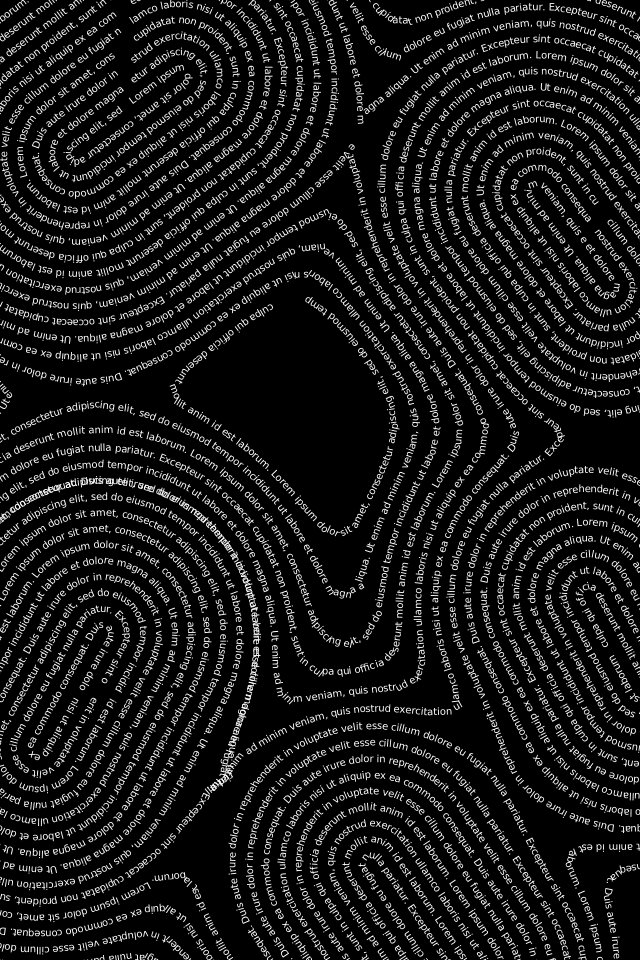
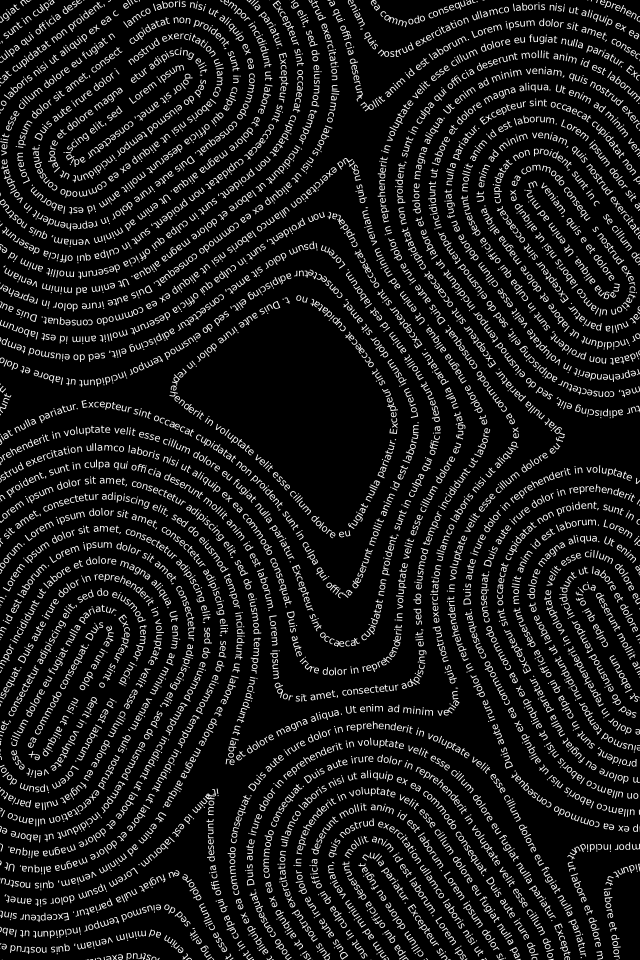
Stop the texture drawing over itself
Reported from a device with a screenshot: the pattern overlaps in one or
two places -- text set across text at a shallow angle. Two faults, and
the second is what the first was hiding.

A ring is traced by walking its curve from a seed, and several seeds are
tried per ring because a ring is several separate curves until the
strokes' families merge. A seed landing where a curve has already been
drawn is dropped, and THAT WAS ONLY EVER ASKED ABOUT THE SEED. A seed
just past the end of an existing curve passed the check and its walk
then retraced seven hundred pixels of the same line, two pixels to the
side. The walk now asks on every stride and stops when it reaches ground
an earlier curve of its ring has covered, so a later curve fills what is
left rather than repeating it. The point that trips the check is not
kept: a stride is long enough to go from a comfortable distance to
touching in one move, and keeping it left the overlap it was meant to
prevent.

That alone took the page from forty clashes to one, and the one was the
interesting half: the checks compare sampled POINTS, and the stride was
capped at three spacings -- so two curves crossing at a shallow angle
could pass through each other between samples with every sample
comfortably far from every other. Neither the walk nor a check after the
fact could see it. Two segments that cross have endpoints within a
stride of the crossing, so the cap is now half a spacing, which no check
[…]

Changed region(s): [[0.0, 0.0, 1.0, 1.0]]

diff --git a/tools/textart/TextArtPainter.qml b/tools/textart/TextArtPainter.qml
@@ -238,12 +238,30 @@ Canvas {
     // ----------------------------------------------------------- the tracing
 
     /// Follow the curve at `level` from a seed, one way, until it closes on
-    /// itself or leaves the canvas. Returns flat `[x0, y0, x1, y1, ...]`.
+    /// itself, leaves the canvas, or reaches ground an earlier curve of this
+    /// ring has already covered. Returns flat `[x0, y0, x1, y1, ...]`.
     ///
     /// One stride along the tangent, then one Newton correction back onto the
     /// level: two evaluations a step, and the correction is what stops the
     /// line drifting off its own ring over thousands of pixels.
-    function walk(L, sx, sy, level, direction, step, maxSteps, soft, sc, fg) {
+    ///
+    /// `covered` is where the ring's earlier curves have been (see
+    /// `traceRing`), and stopping when this one reaches them is what keeps a
+    /// ring from being TRACED TWICE. A device reported the pattern
+    /// overlapping itself in a couple of places: two seeds on one ring, the
+    /// second of them just beyond the end of the curve the first had drawn
+    /// -- so the grid, which was only ever asked about the SEED, let it
+    /// through, and it retraced seven hundred pixels of the same line two
+    /// pixels to the side. Asking on every stride is the whole fix: a later
+    /// curve fills whatever is left of its ring and stops where the pattern
+    /// is already there.
+    ///
+    /// The question it asks is the same one `overlaps` asks afterwards --
+    /// "is there already ink within `near` of here" -- so the two cannot
+    /// disagree about what counts as drawing twice, and the curves meet
+    /// rather than overlapping by however coarse a grid cell happens to be.
+    function walk(L, sx, sy, level, direction, step, maxSteps, soft, sc, fg,
+                  covered, cell, near) {
         var points = []
         var x = sx, y = sy
         var w = art.width, h = art.height
@@ -265,6 +283,16 @@ Canvas {
                 x -= correction * fg[1]
                 y -= correction * fg[2]
             }
+            // BEFORE the point is kept, not after: a stride is as long as
+            // the ring's own curvature allows, so a curve can go from a
+            // comfortable distance to touching in one of them. Keeping the
+            // point that stopped the walk is what left a few overlaps behind
+            // when this stopped on grid cells instead. No `i > 6` guard is
+            // needed -- `covered` holds only the curves traced BEFORE this
+            // one, so there is nothing of its own to trip on.
+            if (art.inked(covered, cell, x, y, near)) {
+                return { points: points, closed: false }
+            }
             points.push(x, y)
             if (i > 6) {
                 var dx = x - sx, dy = y - sy
@@ -277,6 +305,42 @@ Canvas {
             }
         }
         return { points: points, closed: false }
+    }
+
+    /// Whether any point already recorded in `grid` is within `near` of
+    /// (x, y). The grid buckets points by `cell`, and `near` is never more
+    /// than a cell, so the nine around it are all that can hold one.
+    function inked(grid, cell, x, y, near) {
+        var gx = Math.floor(x / cell), gy = Math.floor(y / cell)
+        var limit = near * near
+        for (var ox = -1; ox <= 1; ox++) {
+            for (var oy = -1; oy <= 1; oy++) {
+                var bucket = grid[(gy + oy) * 65536 + (gx + ox)]
+                if (!bucket) {
+                    continue
+                }
+                for (var i = 0; i < bucket.length; i += 2) {
+                    var dx = x - bucket[i], dy = y - bucket[i + 1]
+                    if (dx * dx + dy * dy < limit) {
+                        return true
+                    }
+                }
+            }
+        }
+        return false
+    }
+
+    /// Record a point as drawn, for `inked` to find.
+    ///
+    /// Not `ink`: that is the property saying how dark the text is, and a
+    /// function of the same name is simply not reachable -- the call comes
+    /// back "TypeError", because it is asking a number to be a function.
+    function markInk(grid, cell, x, y) {
+        var key = Math.floor(y / cell) * 65536 + Math.floor(x / cell)
+        if (!grid[key]) {
+            grid[key] = []
+        }
+        grid[key].push(x, y)
     }
 
     /// Every curve of one ring, as `{points, closed}` with `points` flat.
@@ -298,12 +362,36 @@ Canvas {
         var level = spacing * (k + 0.5)
 
         // A chord of this length sits within `tol` of a circle of radius
-        // `level`, so the outermost rings are walked in long strides and the
-        // innermost, which actually curve, in short ones.
+        // `level`, so the innermost rings, which actually curve, are walked
+        // in short strides.
+        //
+        // The CAP is what matters on the outer ones, and it is half a
+        // spacing rather than three: the checks that stop two curves being
+        // drawn over one another compare sampled POINTS, so a stride long
+        // enough to cross another curve between two of its own samples hides
+        // the crossing from them -- which is exactly what shipped, text over
+        // text at a shallow angle with every sample comfortably far from
+        // every other. Two segments that cross have endpoints within a
+        // stride of the crossing, so a stride under half the spacing cannot
+        // hide one from a check that refuses 0.8 of it. This was a stride of
+        // twenty pixels when the pattern was painted on the phone and the
+        // arithmetic had to be cheap; it is painted here now, where it can
+        // afford to be careful.
         var tol = 0.4
         var step = Math.sqrt(8 * level * tol)
-        if (step < 1.5) { step = 1.5 } else if (step > spacing * 3) { step = spacing * 3 }
+        if (step < 1.5) { step = 1.5 } else if (step > spacing * 0.5) { step = spacing * 0.5 }
 
+        // How close two bits of line may come before the later one gives
+        // up: just under the spacing the rings are drawn at, because that
+        // spacing IS the room a line of text needs. Half of it was tried and
+        // is visibly wrong -- the glyphs are nearly as tall as the spacing,
+        // so lines that pass within half of it collide even though no curve
+        // is drawn twice. The seed check and the walk both mean this by
+        // "already drawn", and no point that comes within it is ever kept,
+        // so `overlaps` passes by construction rather than by luck.
+        var near = spacing * 0.95
+        // Big enough that the nine cells around a point hold everything
+        // within `near` of it, and that a stride cannot skip over a cell.
         var cell = Math.max(spacing, step)
         var grid = {}
         var sc = new Array(3 * n)
@@ -337,23 +425,16 @@ Canvas {
                 continue
             }
 
-            var gx0 = Math.floor(sx / cell), gy0 = Math.floor(sy / cell)
-            var covered = false
-            for (var ox = -1; ox <= 1 && !covered; ox++) {
-                for (var oy = -1; oy <= 1 && !covered; oy++) {
-                    if (grid[(gy0 + oy) * 65536 + (gx0 + ox)]) {
-                        covered = true
-                    }
-                }
-            }
-            if (covered) {
+            if (art.inked(grid, cell, sx, sy, near)) {
                 continue
             }
 
-            var forward = art.walk(L, sx, sy, level, 1, step, maxSteps, soft, sc, fg)
+            var forward = art.walk(L, sx, sy, level, 1, step, maxSteps, soft, sc, fg,
+                                   grid, cell, near)
             var points = forward.points
             if (!forward.closed) {
-                var back = art.walk(L, sx, sy, level, -1, step, maxSteps, soft, sc, fg).points
+                var back = art.walk(L, sx, sy, level, -1, step, maxSteps, soft, sc, fg,
+                                    grid, cell, near).points
                 var joined = []
                 for (var b = back.length - 2; b >= 0; b -= 2) {
                     joined.push(back[b], back[b + 1])
@@ -368,11 +449,69 @@ Canvas {
                 continue
             }
             for (var m = 0; m < points.length; m += 2) {
-                grid[Math.floor(points[m + 1] / cell) * 65536 + Math.floor(points[m] / cell)] = true
+                art.markInk(grid, cell, points[m], points[m + 1])
             }
             out.push({ points: points, closed: forward.closed })
         }
         return out
+    }
+
+    /// Where two DIFFERENT curves are drawn over one another, which is the
+    /// one defect of this pattern a person notices: text on top of text.
+    ///
+    /// Returns how many pairs of points sit closer than half the line
+    /// spacing. `make textart` refuses to ship a master that reports any,
+    /// because that is exactly what shipped once -- a ring traced twice by
+    /// two seeds. Pairs from the SAME curve are not counted: a curve comes
+    /// legitimately near itself around a tight end cap, where a ring is a
+    /// capsule barely wider than the stride that walks it.
+    function overlaps() {
+        var curves = art.layout()
+        var xs = [], ys = [], owner = []
+        for (var c = 0; c < curves.length; c++) {
+            var p = curves[c].points
+            for (var i = 0; i < p.length; i += 2) {
+                xs.push(p[i])
+                ys.push(p[i + 1])
+                owner.push(c)
+            }
+        }
+        var cell = art.spacing
+        var grid = {}
+        for (var n = 0; n < xs.length; n++) {
+            var key = Math.floor(ys[n] / cell) * 65536 + Math.floor(xs[n] / cell)
+            if (!grid[key]) {
+                grid[key] = []
+            }
+            grid[key].push(n)
+        }
+        // Below the walk's own 0.95, so this has teeth: it fails on a
+        // regression that lets two curves run closer than a line of text
+        // needs, rather than only on one that draws the same line twice.
+        var tooClose = cell * 0.8
+        var found = 0
+        for (var a = 0; a < xs.length; a++) {
+            var gx = Math.floor(xs[a] / cell), gy = Math.floor(ys[a] / cell)
+            for (var ox = -1; ox <= 1; ox++) {
+                for (var oy = -1; oy <= 1; oy++) {
+                    var bucket = grid[(gy + oy) * 65536 + (gx + ox)]
+                    if (!bucket) {
+                        continue
+                    }
+                    for (var bi = 0; bi < bucket.length; bi++) {
+                        var b = bucket[bi]
+                        if (b <= a || owner[a] === owner[b]) {
+                            continue
+                        }
+                        var dx = xs[a] - xs[b], dy = ys[a] - ys[b]
+                        if (Math.sqrt(dx * dx + dy * dy) < tooClose) {
+                            found++
+                        }
+                    }
+                }
+            }
+        }
+        return found
     }
 
     /// Every curve on the canvas. Pure, and what the cover's test reads: the

diff --git a/tools/textart/render.qml b/tools/textart/render.qml
@@ -53,6 +53,11 @@ Window {
                 if (complete && !written) {
                     written = true
                     console.log("wrote", modelData.file, save(modelData.file))
+                    // Traced a second time, and only to be told off: a ring
+                    // drawn twice is the one defect of this pattern anyone
+                    // notices, and it has shipped once. The script reads
+                    // this line and refuses the master if it is not zero.
+                    console.log("OVERLAPS", modelData.file, overlaps())
                     win.done++
                     if (win.done === win.masters.length) {
                         Qt.quit()
